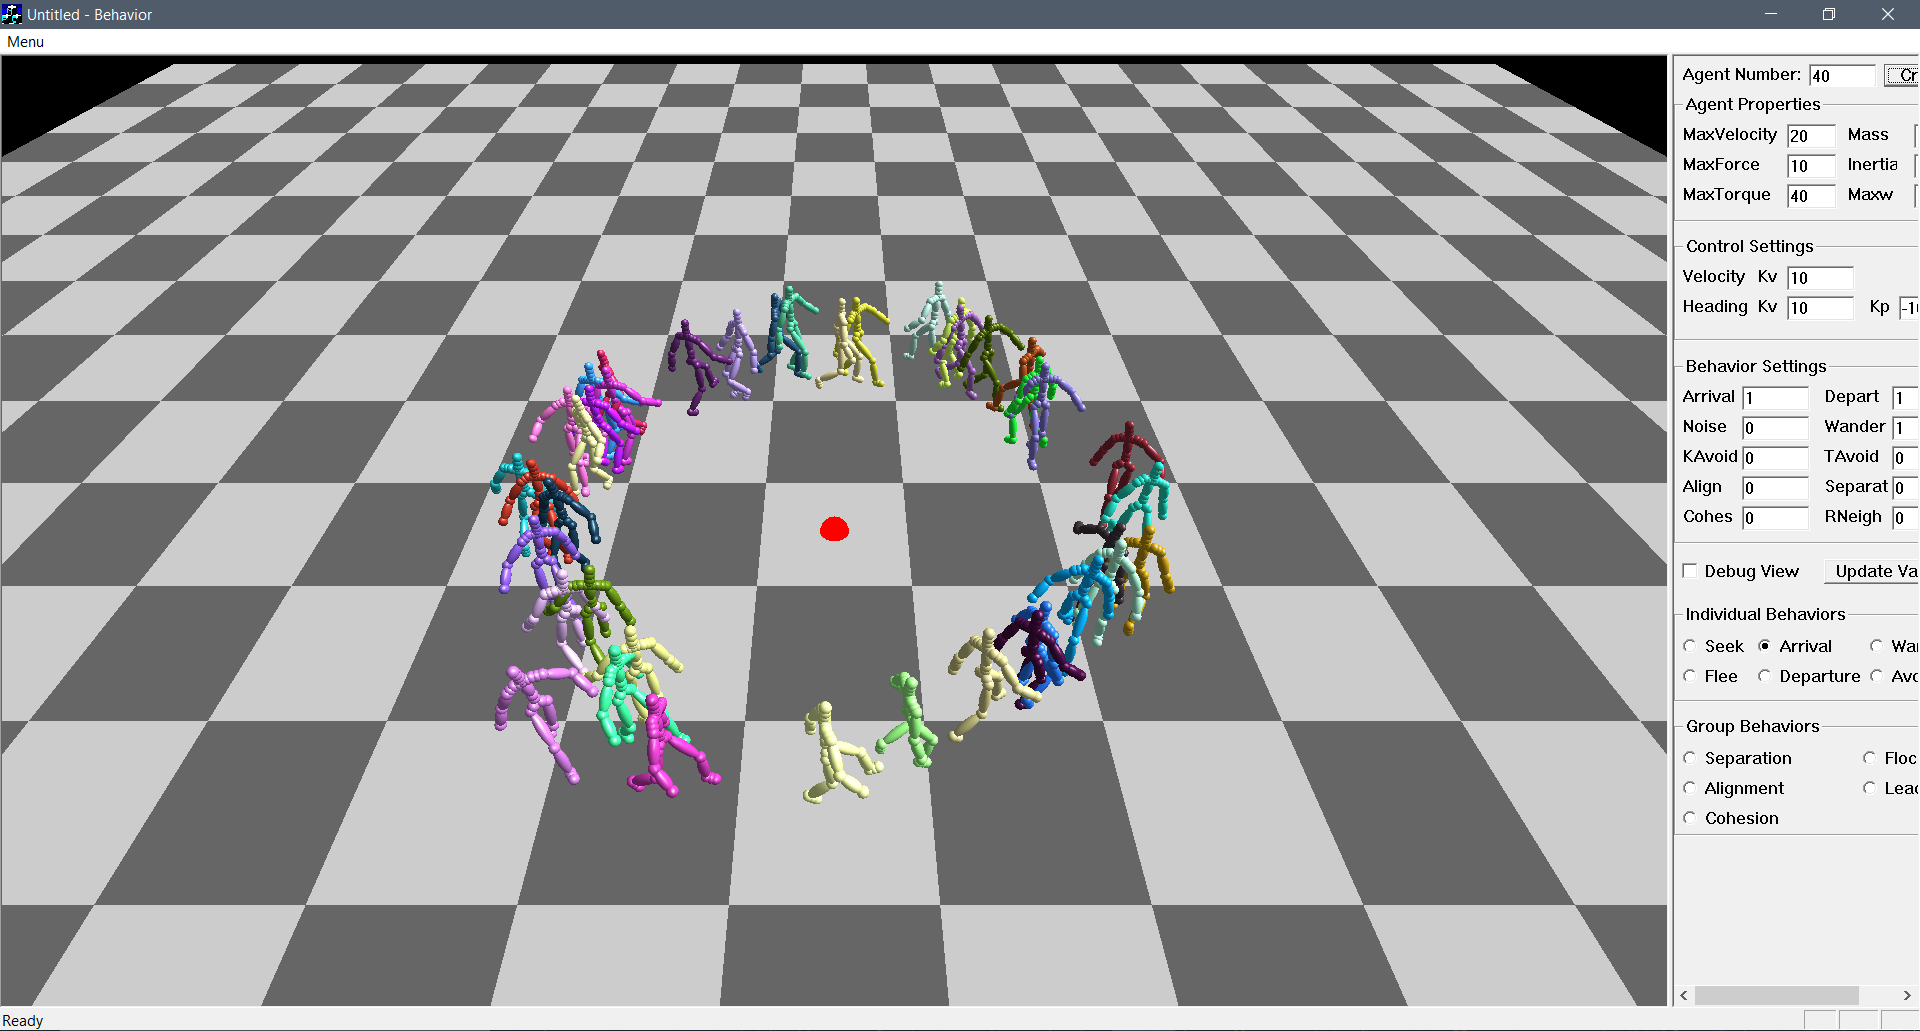
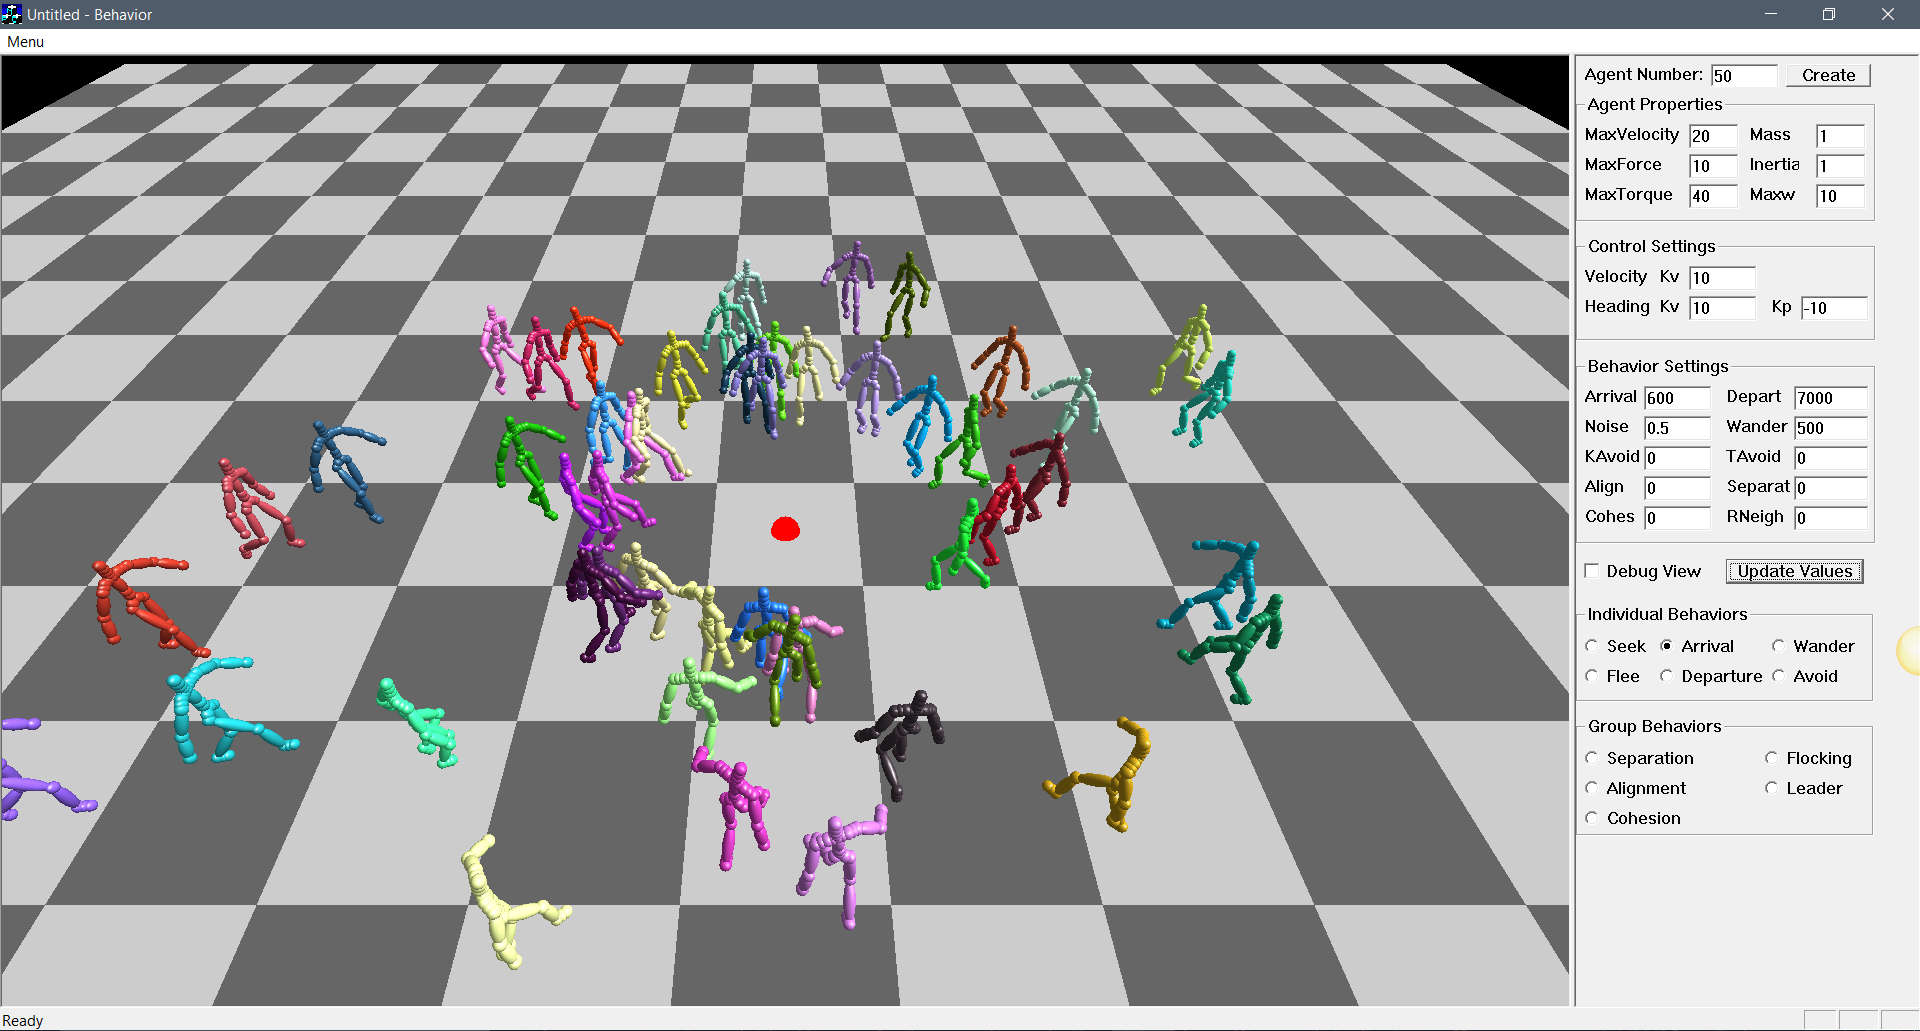
arrival

diff --git a/Homework3/BehaviorSimFramework/src/Agent.cpp b/Homework3/BehaviorSimFramework/src/Agent.cpp
@@ -25,7 +25,7 @@ float SIMAgent::MaxAngVel = 10.0; //Maximum angular velocity
 float SIMAgent::Kv0 = 1.0; //Velocity control: f = m * Kv0 * (vd - v)
 float SIMAgent::Kp1 = 1.0; //Heading control: tau = I * ( -Kv1 * thetaDot - Kp1 * theta + Kp1 * thetad)
 float SIMAgent::Kv1 = 1.0; //Heading control: tau = I * ( -Kv1 * thetaDot - Kp1 * theta + Kp1 * thetad)
-float SIMAgent::KArrival = 1.0; // Behavior settings. See comments in cpp file for details
+float SIMAgent::KArrival = 600.0; // Behavior settings. See comments in cpp file for details
 float SIMAgent::KDeparture = 1.0;
 float SIMAgent::KNoise = 1.0;
 float SIMAgent::KWander = 1.0;
@@ -228,7 +228,7 @@ void SIMAgent::InitValues()
 
 	Kp1 = -10.0; // Heading control - changed to negative to get agents moving in desired direction (opposite of what was being observed when this value was positive)
 	Kv1 = 10.0; // Heading control
-	KArrival = 1.0; // Behavior settings
+	KArrival = 100.0; // Behavior settings
 	KDeparture = 7000.0;
 	KNoise = 0.5;
 	KWander = 500.0;
@@ -397,20 +397,18 @@ vec2 SIMAgent::Arrival()
 	
 	tmp = goal - GPos; //shortest path from the current position to the target
 	dist = tmp.Length(); // distance to target
+	vd = dist - SIMAgent::KArrival; //desired velocity 
 	thetad = atan2(tmp[1], tmp[0]); // desired orientation
-	vd = dist * SIMAgent::KArrival; // desired velocity
 /*
 	Added if statement based on lecture and "Steering Behaviors in C# and C++" by Simon Coenen (simoncoenen.com/downloads/ai_paper.pdf)
 	*Should steer agent towards the target and slow down as it comes closer
 */
-	if (dist < 30) { //agent's bounding radius is set at 20?
-		
+	if (dist > 2) { 
 		tmp = vec2(cos(thetad)* vd, sin(thetad)* vd); // Cartesian coordinates
 	}
-
-	else
-		tmp = vec2(cos(thetad)* vd, sin(thetad)* vd);
-
+	else {
+		tmp = vec2(cos(thetad), sin(thetad));
+	}
 	return tmp; // return coordinates
 }
 

diff --git a/Homework3/Readme.md b/Homework3/Readme.md
@@ -69,7 +69,7 @@ void SIMAgent::InitValues()
 		* Agents spun around in a circle and slowly moved towards target
 	* Across these initial values, negative sign correct agents' direction or movement towards the target but can introduce other errors
 	* Only a negative *Kp1* value achieves desired behavior outcome
-
+* As time passes, the agents begin to form clusters
 
 ```C++
 vec2 SIMAgent::Seek()
@@ -116,26 +116,39 @@ vec2 SIMAgent::Flee()
 ![](images/flee.png?raw=true)
 
 ###### Arrival
-* 	Based on April 4th class and 'Arrival and Departure' webcourses page
+* Based on April 4th class and 'Arrival and Departure' webcourses page
+* If statement based on lecture and "Steering Behaviors in C# and C++" by Simon Coenen (simoncoenen.com/downloads/ai_paper.pdf)
+	* Should steer agent towards the target and slow down as it comes closer
 
 ```C++
 vec2 SIMAgent::Arrival()
 {
 	vec2 tmp;
 	double dist;
+	double m;
+	double arrived;
 	
 	tmp = goal - GPos; //shortest path from the current position to the target
 	dist = tmp.Length(); // distance to target
+	vd = dist - SIMAgent::KArrival; //desired velocity 
+	//vd = dist * SIMAgent::KArrival;
 	thetad = atan2(tmp[1], tmp[0]); // desired orientation
-	vd = dist * SIMAgent::KArrival; // desired velocity
-	tmp = vec2(cos(thetad)* vd, sin(thetad)* vd); // Cartesian coordinates
 
-	return tmp; // return coordinates
+	if (dist > 2) { 
+		tmp = vec2(cos(thetad)* vd, sin(thetad)* vd); // Cartesian coordinates
+	}
+	else {
+		tmp = vec2(cos(thetad), sin(thetad));
+	}
 }
 ```
 
-* Youtube: [Arrival](https://youtu.be/hHN46n-yk0k)
-	
+* Youtube: [Arrival - Basic](https://youtu.be/h-8T3fzy9D4)
+	* As you can see in the video, I did execute this behavior perfectly - the first time the agents approach the target they do not slow down and come to a stop only once they've reached the target
+	* As the agents repeat this behavior, they begin to slow down and stop before reaching the target
+* Youtube: [Arrival - Moving the Target](https://youtu.be/opaS4oHdhT8)
+	* This video shows how the agents arrival behavior changes when the target is moved
+	* Again, the agents reach the target, stop, and then back up - they repeat this behavior infinitely
 ![](images/arrival.png?raw=true)
 
 
@@ -150,7 +163,7 @@ vec2 SIMAgent::Departure()
 	dist = tmp.Length(); // distance to target
 	thetad = atan2(tmp[1], tmp[0]); // derive target angle
 	thetad = thetad + M_PI; //opposite direction
-	vd = (1.0/dist) * SIMAgent::KDeparture ; // max velocity with damping down to stop agents from departing infinitely
+	vd = (1.0/dist) * SIMAgent::KDeparture ; // max velocity with damping, stop agents from departing infinitely
 	tmp = vec2(cos(thetad)* vd, sin(thetad)* vd); //convert to Cartesian coordinates
 
 	return tmp;
@@ -158,6 +171,7 @@ vec2 SIMAgent::Departure()
 ```
 * Youtube: [Departure](https://youtu.be/8oYlwopYqmc)
 	* Video shows differences between Seek, Flee, and Departure behaviors
+	
 ![](images/depart.png?raw=true)
 
 ###### Wander
